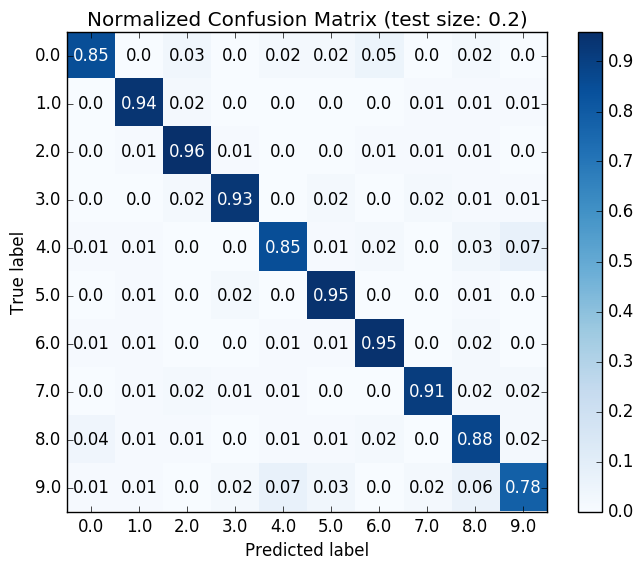
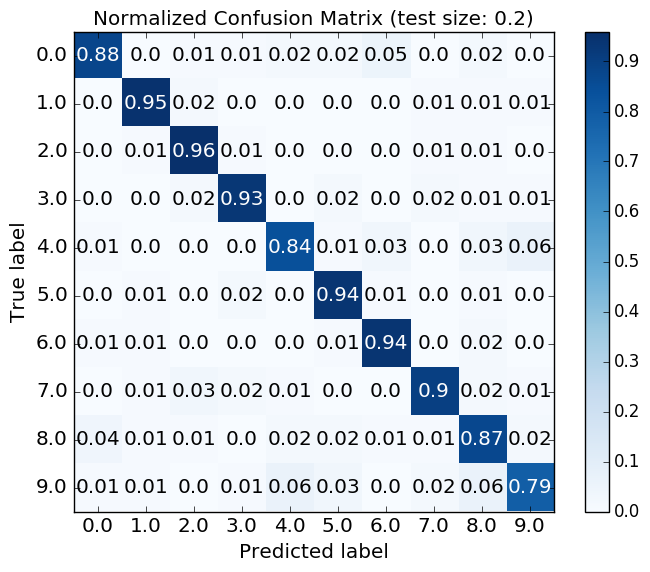
part2

diff --git a/trab1/part2/arvore.py b/trab1/part2/arvore.py
@@ -36,6 +36,7 @@ if __name__ == "__main__":
             y_test,
             y_pred,
             normalize=True,
-            title='Normalized Confusion Matrix (test size: ' + str(x) + ')'
+            title='Normalized Confusion Matrix (test size: ' + str(x) + ')',
+            text_fontsize="large"
         )
         plt.savefig('./arvore/' + str(int(x*10)) + '.png', bbox_inches='tight')

diff --git a/trab1/part2/nb.py b/trab1/part2/nb.py
@@ -38,6 +38,7 @@ if __name__ == "__main__":
             y_test,
             y_pred,
             normalize=True,
-            title='Normalized Confusion Matrix (test size: ' + str(x) + ')'
+            title='Normalized Confusion Matrix (test size: ' + str(x) + ')',
+            text_fontsize="large"
         )
         plt.savefig('./nb/' + str(int(x*10)) + '.png', bbox_inches='tight')
